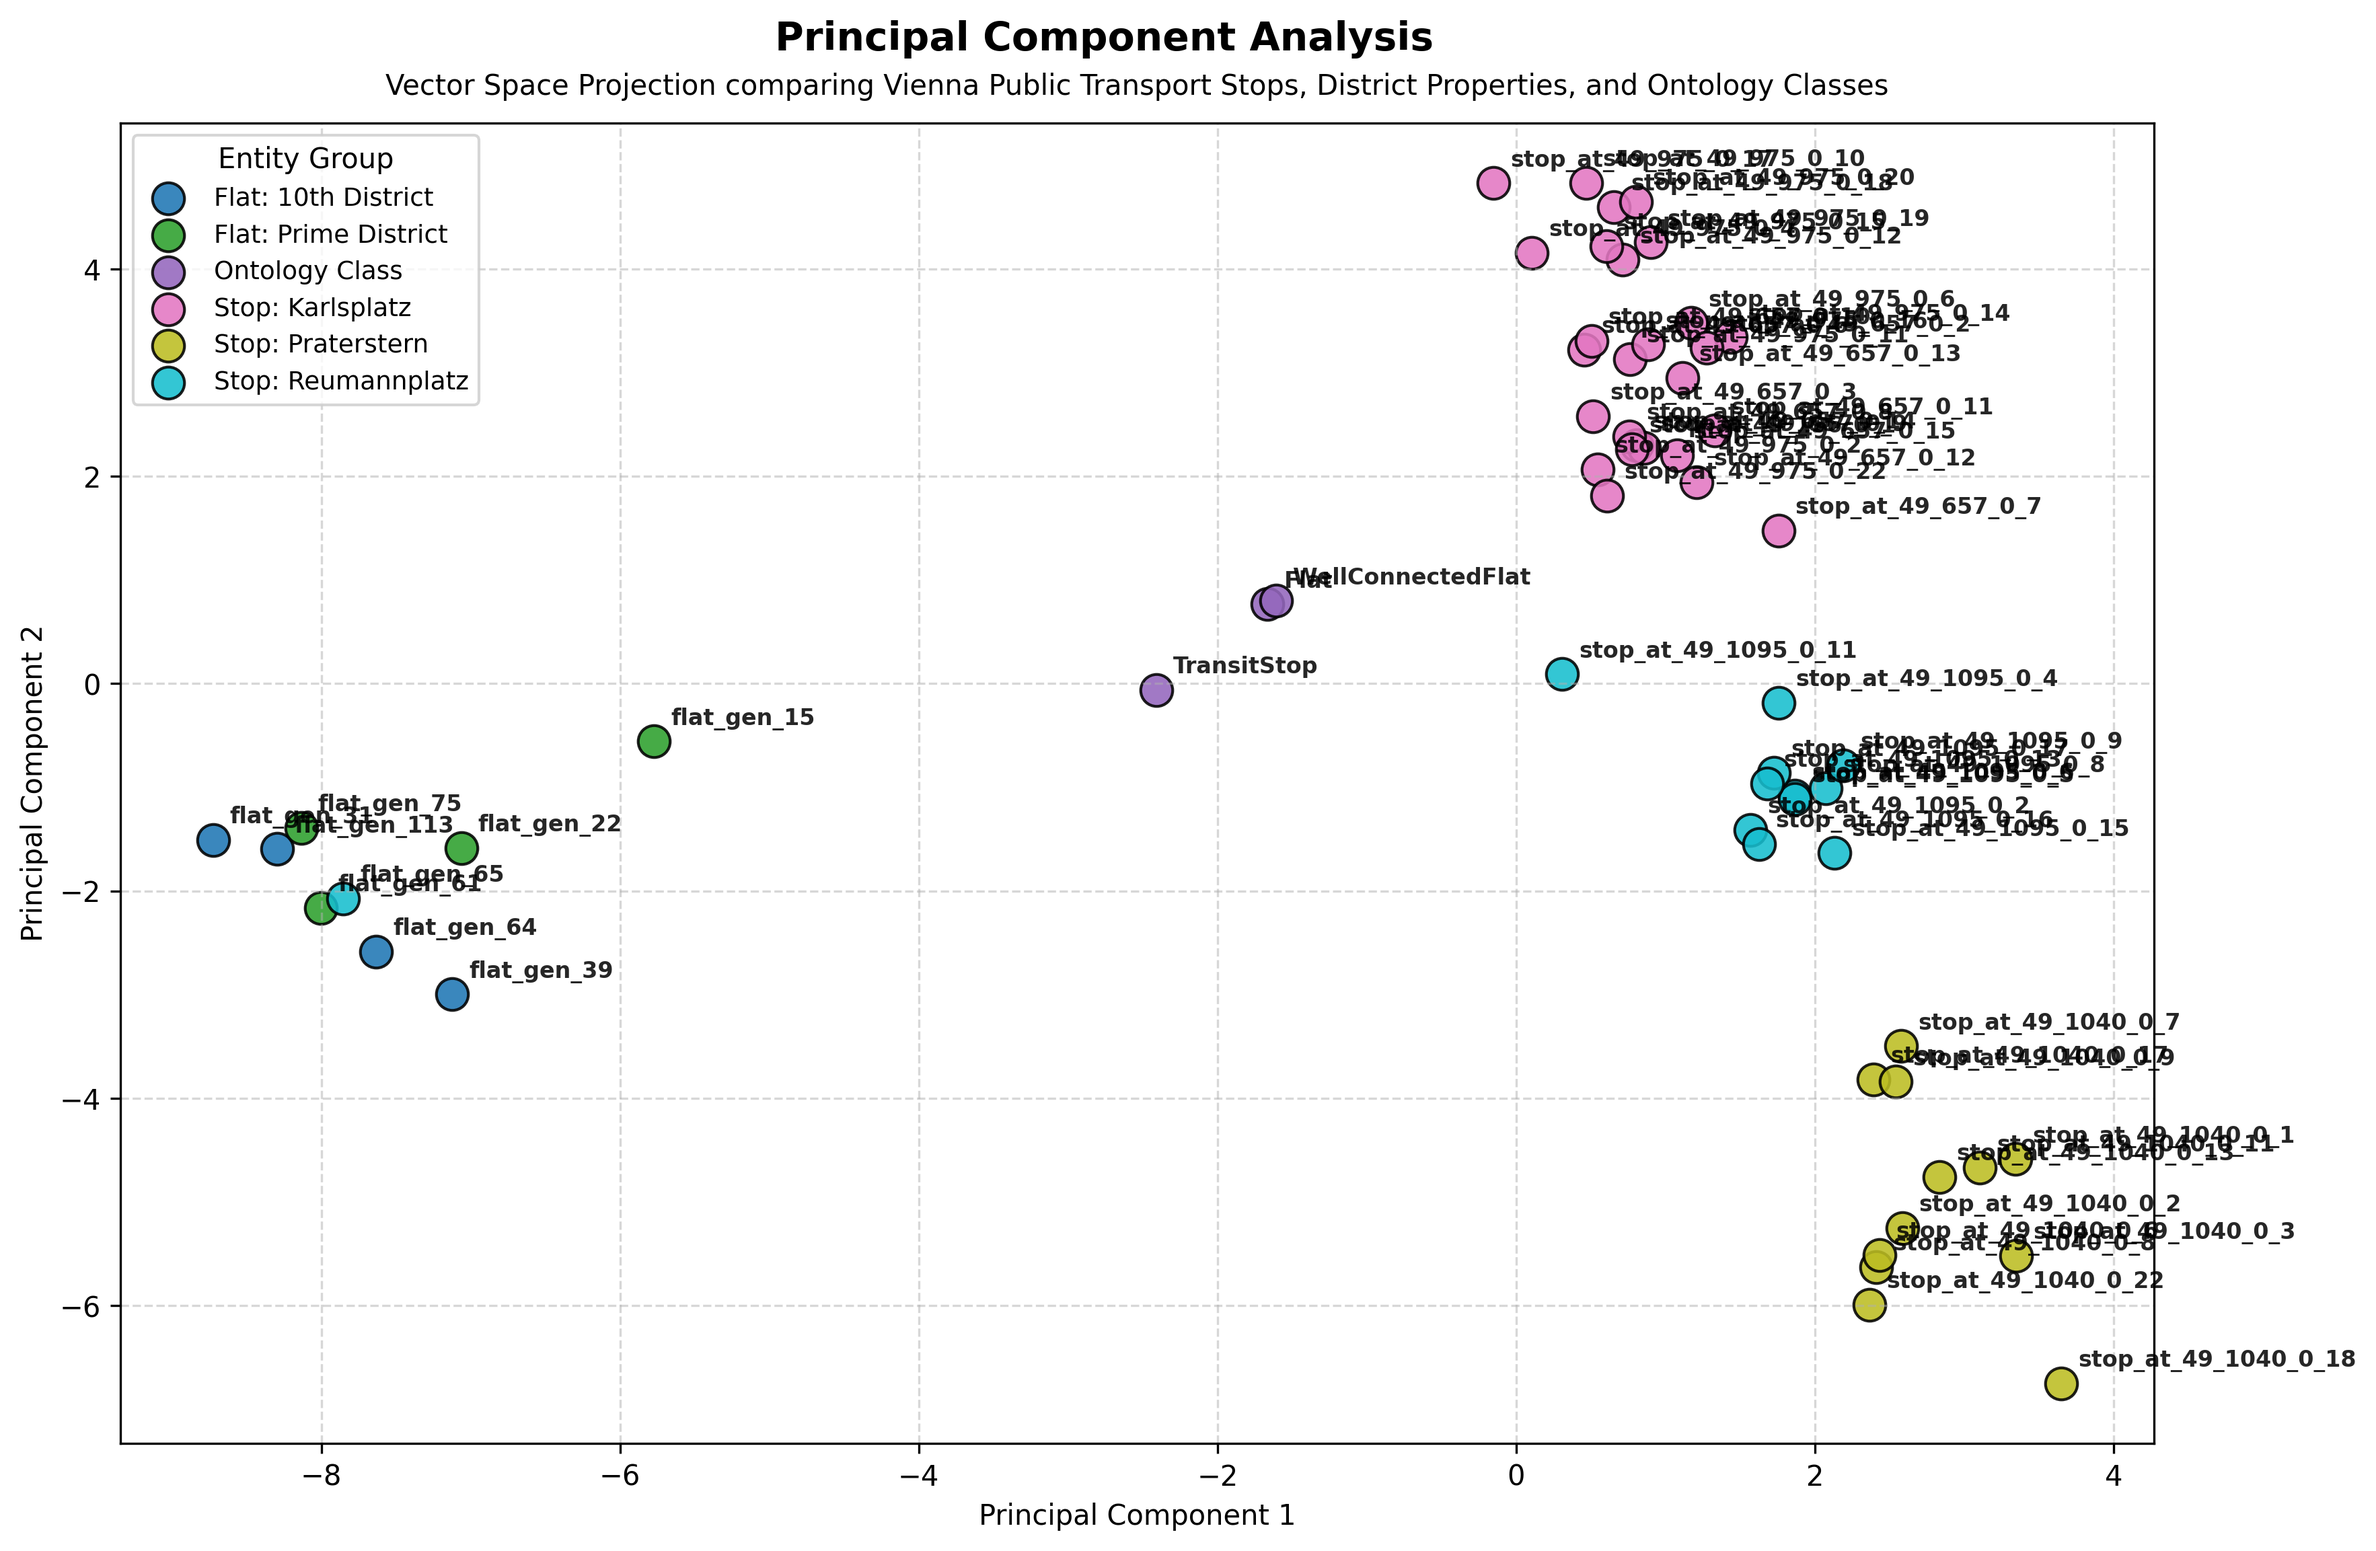
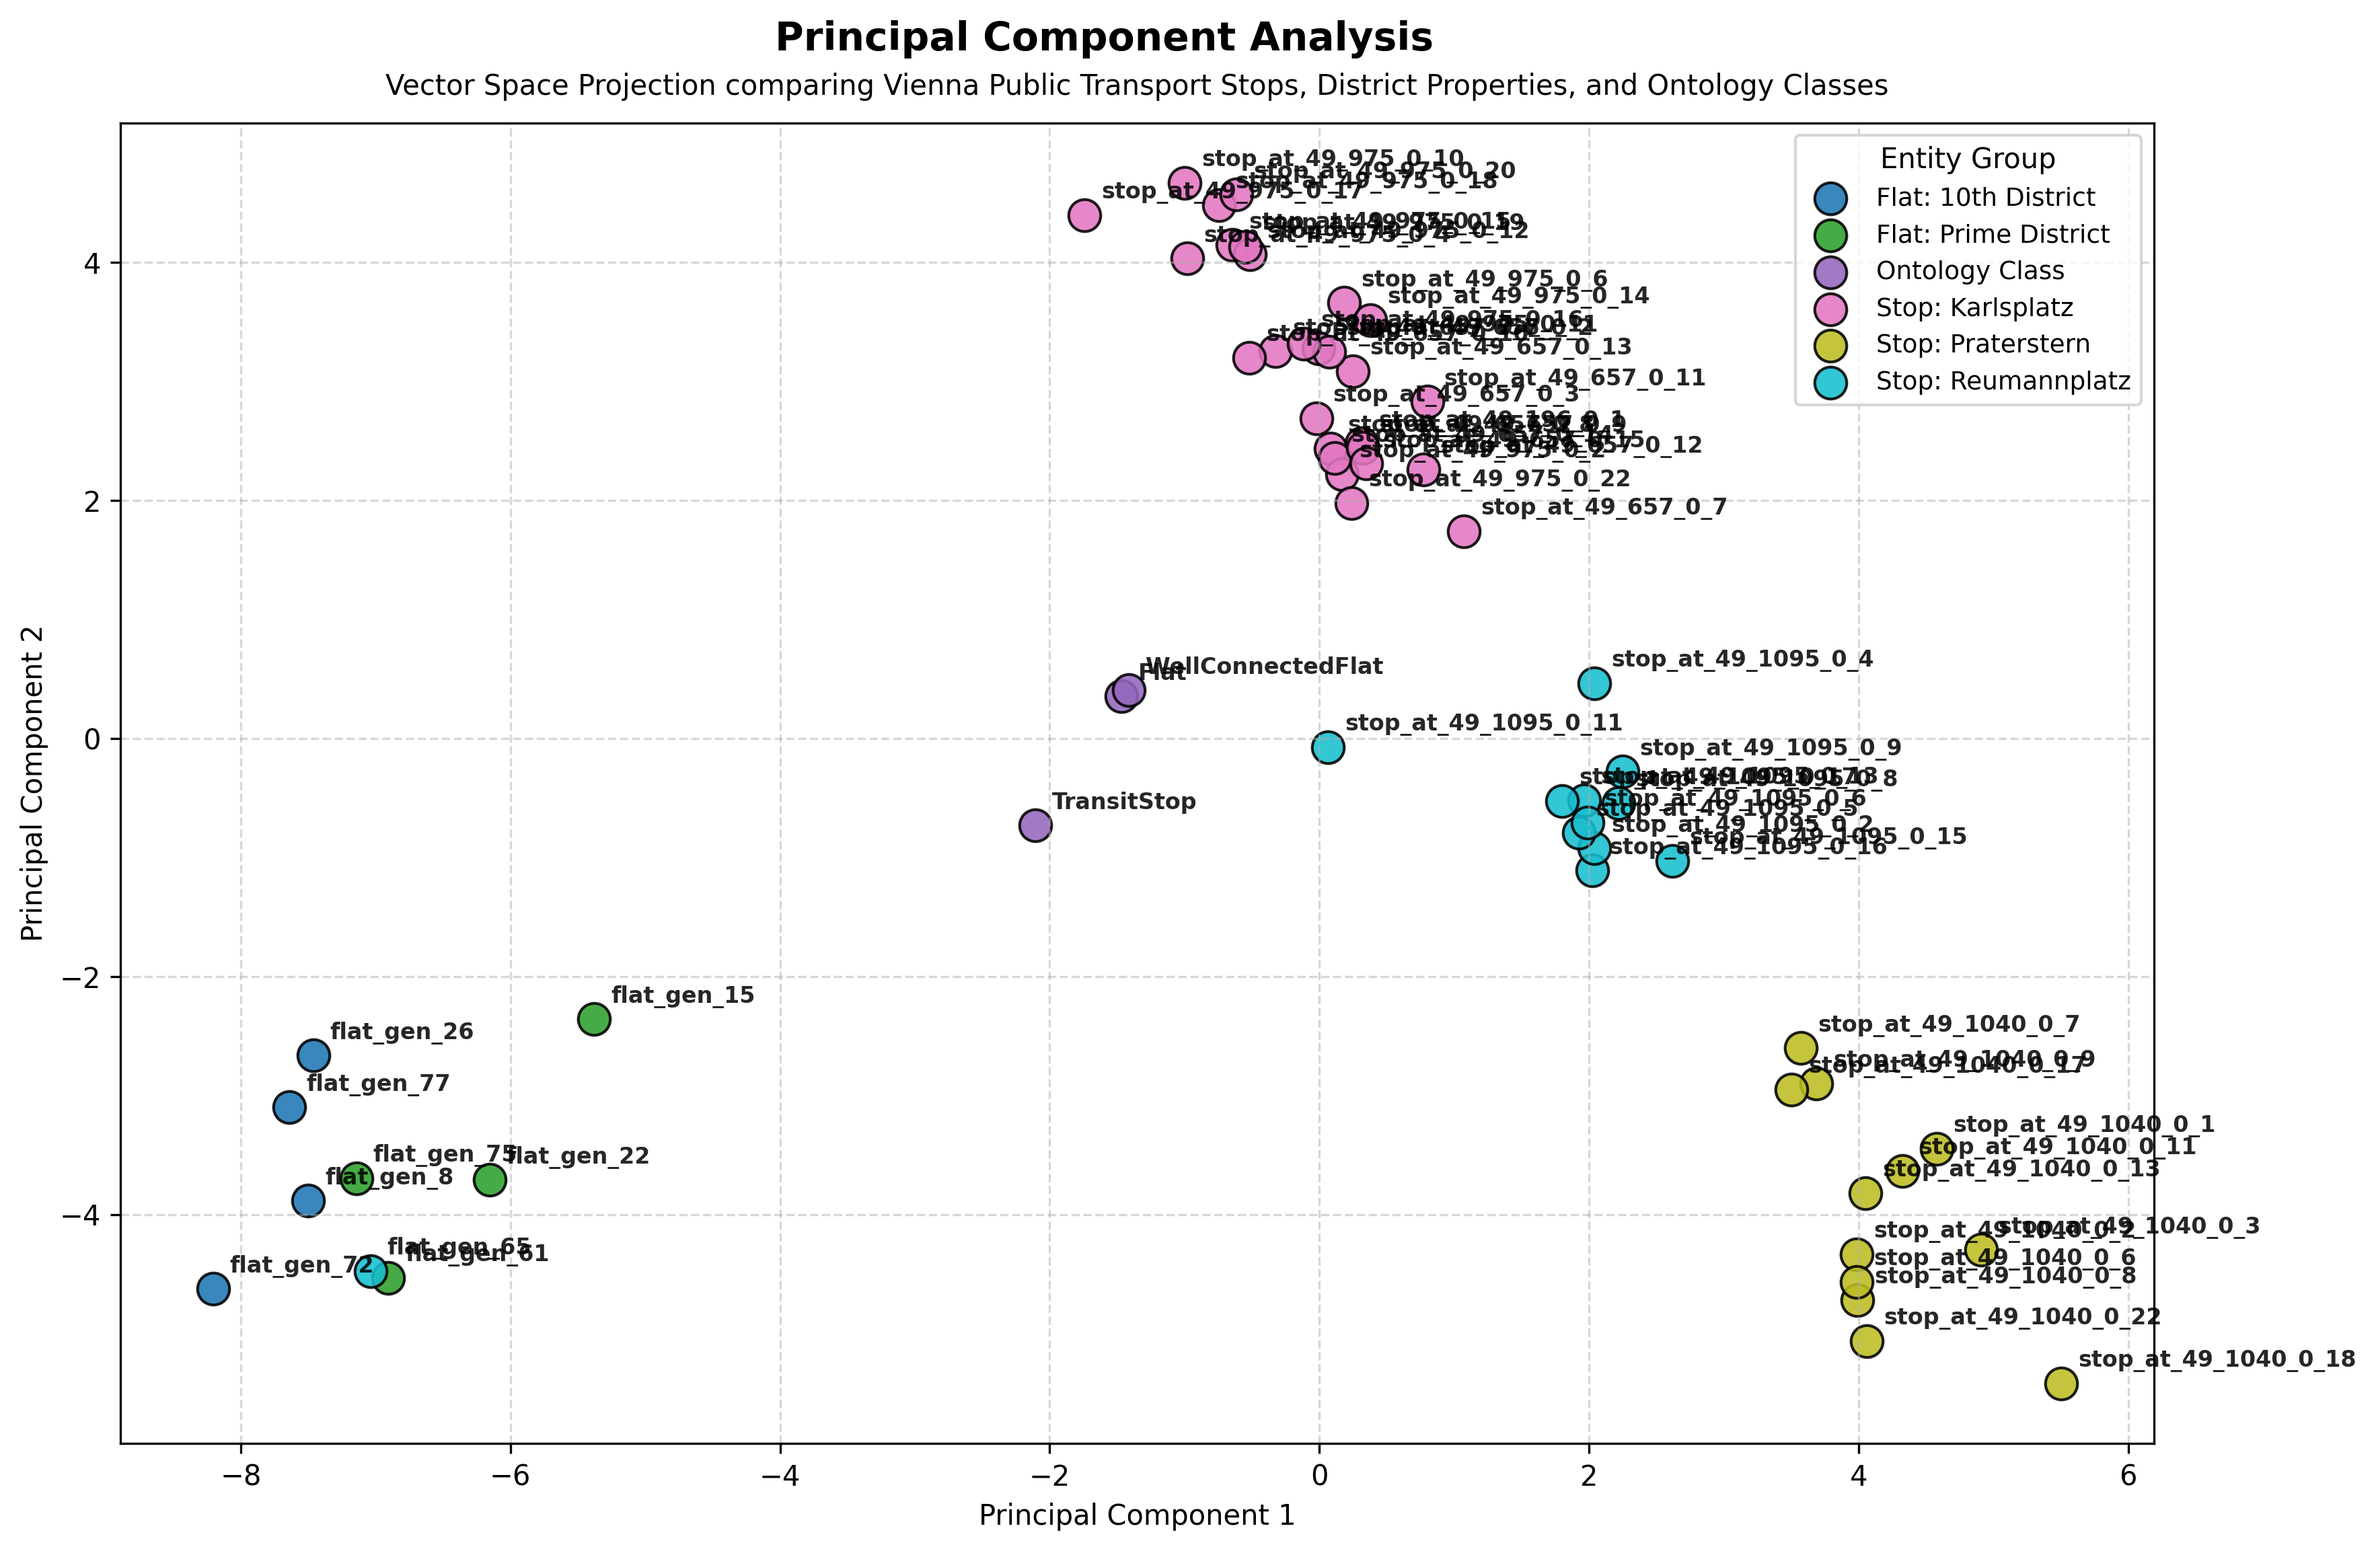
now all LATEST_RUN_DIR adjusted

diff --git a/src/4_ml/evaluate_embeddings_pca.py b/src/4_ml/evaluate_embeddings_pca.py
@@ -10,6 +10,7 @@ by analyzing their vector representations. It performs two main tasks:
 
 import gzip
 import os
+import glob
 import matplotlib.pyplot as plt
 import numpy as np
 import pandas as pd
@@ -28,13 +29,16 @@ KG_PATH = os.path.join(PROJECT_ROOT, "src", "3_logic", "inferred_vienna_kg.ttl")
 RESULTS_DIR = os.path.join(SCRIPT_DIR, "results")
 
 # Manual Override: Hardcode a specific run to ensure reproducibility for the evaluation plots.
-MANUAL_RUN_NAME = "run_20261007_070839_RotatE_dim128"
-RUN_DIR = os.path.join(RESULTS_DIR, MANUAL_RUN_NAME)
+# MANUAL_RUN_NAME = "run_20261007_070839_RotatE_dim128"
+valid_dirs = [d for d in glob.glob(os.path.join(RESULTS_DIR, "run_*")) 
+              if os.path.exists(os.path.join(d, "trained_model.pkl"))]
 
-if not os.path.exists(RUN_DIR):
-    raise FileNotFoundError(f"Directory not found: {RUN_DIR}")
+if not valid_dirs:
+    raise FileNotFoundError("No valid run directory with trained_model.pkl found in results!")
 
-print(f"Loading model from: {os.path.basename(RUN_DIR)}")
+LATEST_RUN_DIR = max(valid_dirs, key=os.path.getctime)
+
+print(f"Loading model from: {os.path.basename(LATEST_RUN_DIR)}")
 
 # Parse Knowledge Graph to extract human-readable labels for our entities
 print("Parsing Knowledge Graph...")
@@ -43,13 +47,13 @@ g.parse(KG_PATH, format="turtle")
 
 # Load the trained PyTorch KGE model into memory
 model = torch.load(
-    os.path.join(RUN_DIR, "trained_model.pkl"), weights_only=False
+    os.path.join(LATEST_RUN_DIR, "trained_model.pkl"), weights_only=False
 )
 
 # Load the entity-to-ID mapping to query specific vectors from the model
 entity_to_id = {}
 mapping_path = os.path.join(
-    RUN_DIR, "training_triples", "entity_to_id.tsv.gz"
+    LATEST_RUN_DIR, "training_triples", "entity_to_id.tsv.gz"
 )
 
 with gzip.open(mapping_path, "rt", encoding="utf-8") as f:
@@ -237,7 +241,7 @@ if len(X) >= 2:
     plt.legend(loc="best", fontsize=9, title="Entity Group")
 
     # Save the output image inside the active model run directory
-    plot_path = os.path.join(RUN_DIR, "extended_similarity_pca_clean.png")
+    plot_path = os.path.join(LATEST_RUN_DIR, "extended_similarity_pca_clean.png")
     plt.savefig(plot_path, dpi=300, bbox_inches="tight")
     print(f"Clean PCA plot saved to: {plot_path}")
     
